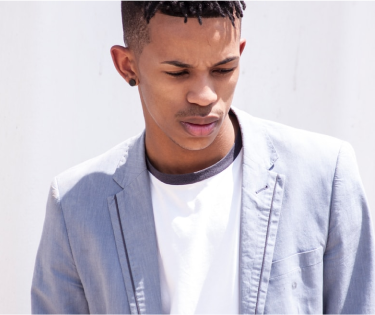
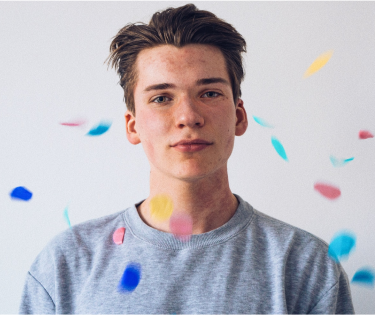
add footer component

diff --git a/src/components/ourteam.jsx b/src/components/ourteam.jsx
@@ -1,5 +1,8 @@
 import React from "react";
 import TeamMember1 from "../images/teammember (1).png";
+import TeamMember2 from "../images/teammember (2).png";
+import TeamMember3 from "../images/teammember (3).png";
+import TeamMember4 from "../images/teammember (4).png";
 
 const OurTeam = () => {
   return (
@@ -17,9 +20,56 @@ const OurTeam = () => {
               amet, consectetur adipiscing elit.{" "}
             </div>
           </div>
-          <div className="mt-[51px]">
-            <div>
+          <div className="mt-[51px] md:w-[25%] md:inline-block">
+            <div className="relative group">
               <img src={TeamMember1}></img>
+              <div className="absolute bottom-0 left-0 bg-white max-w-[237px] md:max-w-[100%] w-full pl-[12px] pt-[8px] pb-[13px] md:hidden group-hover:block">
+                <div className="font-[700] text-[21px] leading-[25px]">
+                  Jhon Doe
+                </div>
+                <div className="leading-[16px] text-[13px] font-[600] text-[#5E5E5E]">
+                  Digital Marketing Manager
+                </div>
+              </div>
+            </div>
+          </div>
+          <div className="md:w-[25%] md:inline-block">
+            <div className="relative group">
+              <img src={TeamMember2}></img>
+              <div className="absolute bottom-0 left-0 bg-white max-w-[237px] md:max-w-[100%] w-full pl-[12px] pt-[8px] pb-[13px] md:hidden group-hover:block">
+                <div className="font-[700] text-[21px] leading-[25px]">
+                  Jhon Doe
+                </div>
+                <div className="leading-[16px] text-[13px] font-[600] text-[#5E5E5E]">
+                  Digital Marketing Manager
+                </div>
+              </div>
+            </div>
+          </div>
+          <div className="md:w-[25%] md:inline-block">
+            <div className="relative group">
+              <img src={TeamMember3}></img>
+              <div className="absolute bottom-0 left-0 bg-white max-w-[237px] md:max-w-[100%] w-full pl-[12px] pt-[8px] pb-[13px] md:hidden group-hover:block">
+                <div className="font-[700] text-[21px] leading-[25px]">
+                  Jhon Doe
+                </div>
+                <div className="leading-[16px] text-[13px] font-[600] text-[#5E5E5E]">
+                  Digital Marketing Manager
+                </div>
+              </div>
+            </div>
+          </div>
+          <div className="md:w-[25%] md:inline-block">
+            <div className="relative group">
+              <img src={TeamMember4}></img>
+              <div className="absolute bottom-0 left-0 bg-white max-w-[237px] md:max-w-[100%] w-full pl-[12px] pt-[8px] pb-[13px] md:hidden group-hover:block">
+                <div className="font-[700] text-[21px] leading-[25px]">
+                  Jhon Doe
+                </div>
+                <div className="leading-[16px] text-[13px] font-[600] text-[#5E5E5E]">
+                  Digital Marketing Manager
+                </div>
+              </div>
             </div>
           </div>
         </div>

diff --git a/src/components/footer.jsx b/src/components/footer.jsx
@@ -1,0 +1,26 @@
+import React from "react";
+
+const Footer = () => {
+  return (
+    <section className="bg-[#000000] md:bg-[#ffffff] text-white md:text-black">
+      <main>
+        <div>
+          <div className="md:flex md:justify-between md:py-[32px] md:pl-[95px] md:pr-[107px]">
+            <div className="hidden md:block md:text-[20px] md:font-[400] md:leading-[24px]">
+              2022 Creatives
+            </div>
+            <div className="md:flex md:justify-between md:space-x-[56px] text-center text-[10px] leading-[12px] font-[200] md:text-[20px] md:font-[400] md:leading-[24px]">
+              <div>Privacy Policy</div>
+              <div>Terms and Conditions</div>
+            </div>
+          </div>
+        </div>
+        <div className="md:hidden text-[10px] font-[800] leading-[12px] text-center py-[26px]">
+          <div>2022 CompanyName</div>
+        </div>
+      </main>
+    </section>
+  );
+};
+
+export default Footer;

diff --git a/src/App.js b/src/App.js
@@ -3,6 +3,7 @@ import './App.css';
 import Header from './components/header';
 import Work from './components/work';
 import OurTeam from './components/ourteam';
+import Footer from './components/footer';
 
 function App() {
   return (
@@ -10,6 +11,7 @@ function App() {
       <Header></Header>
       <Work></Work>
       <OurTeam></OurTeam>
+      <Footer></Footer>
     </div>
   );
 }
